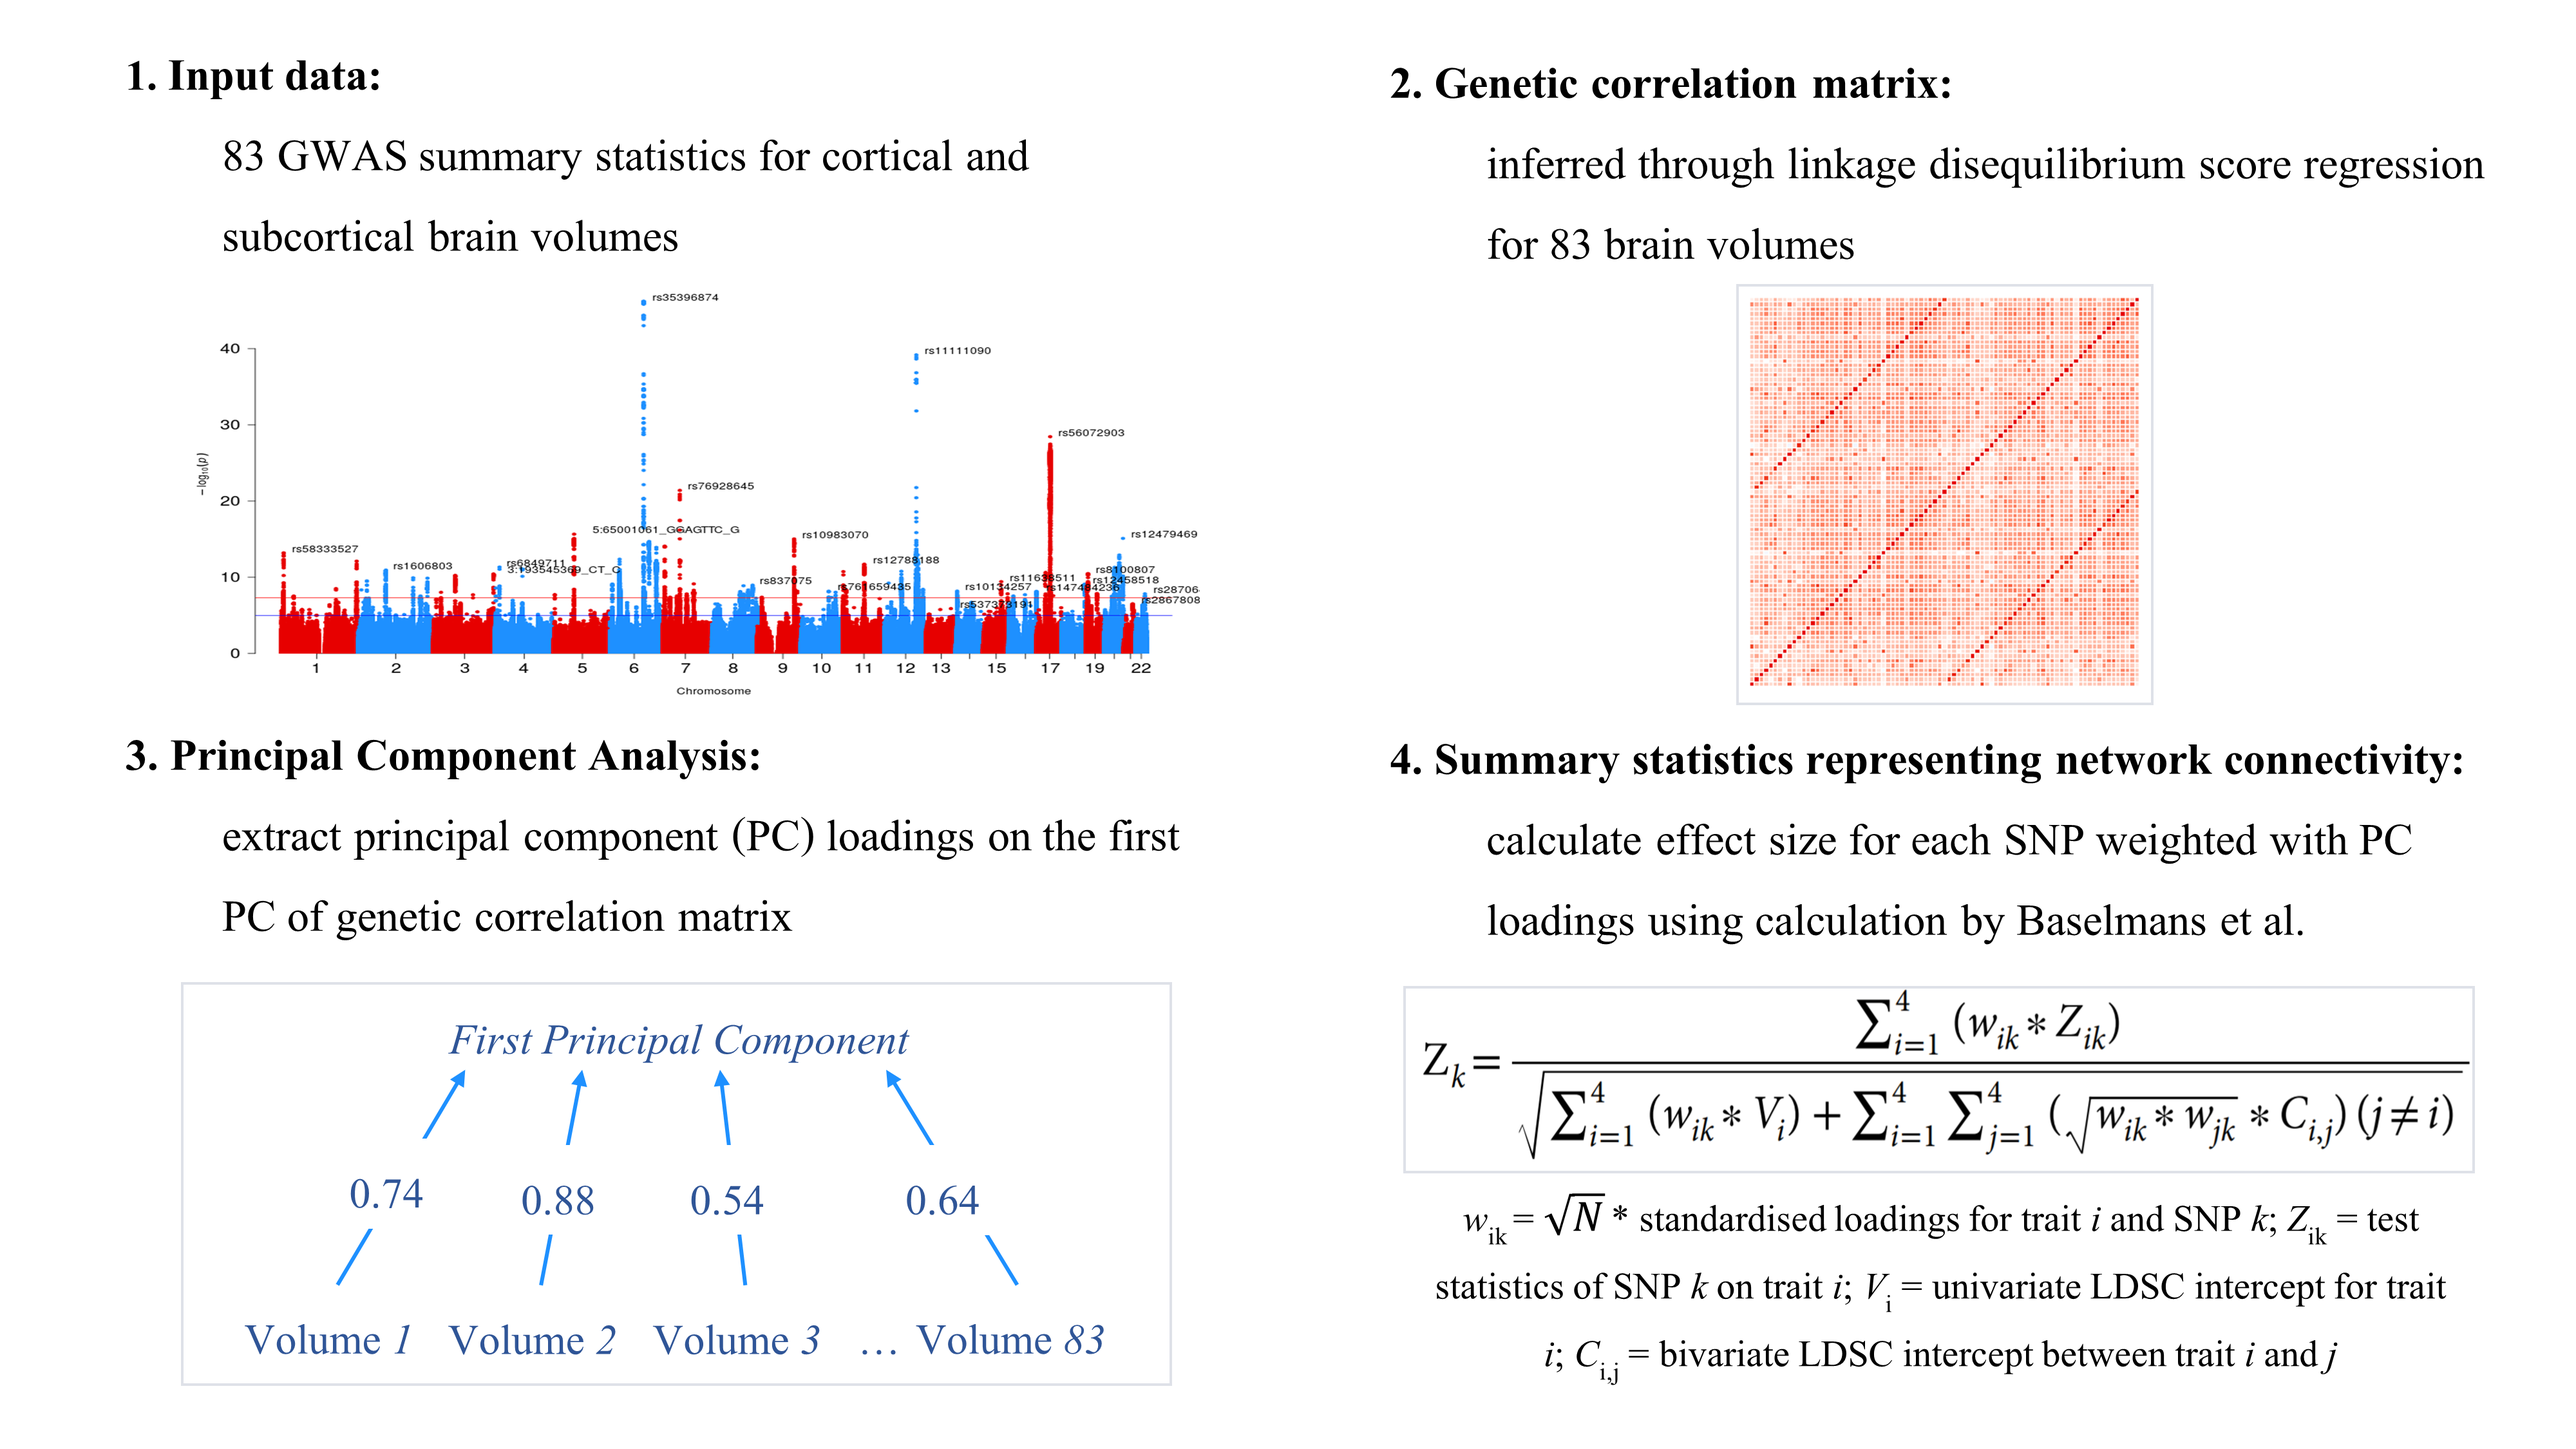
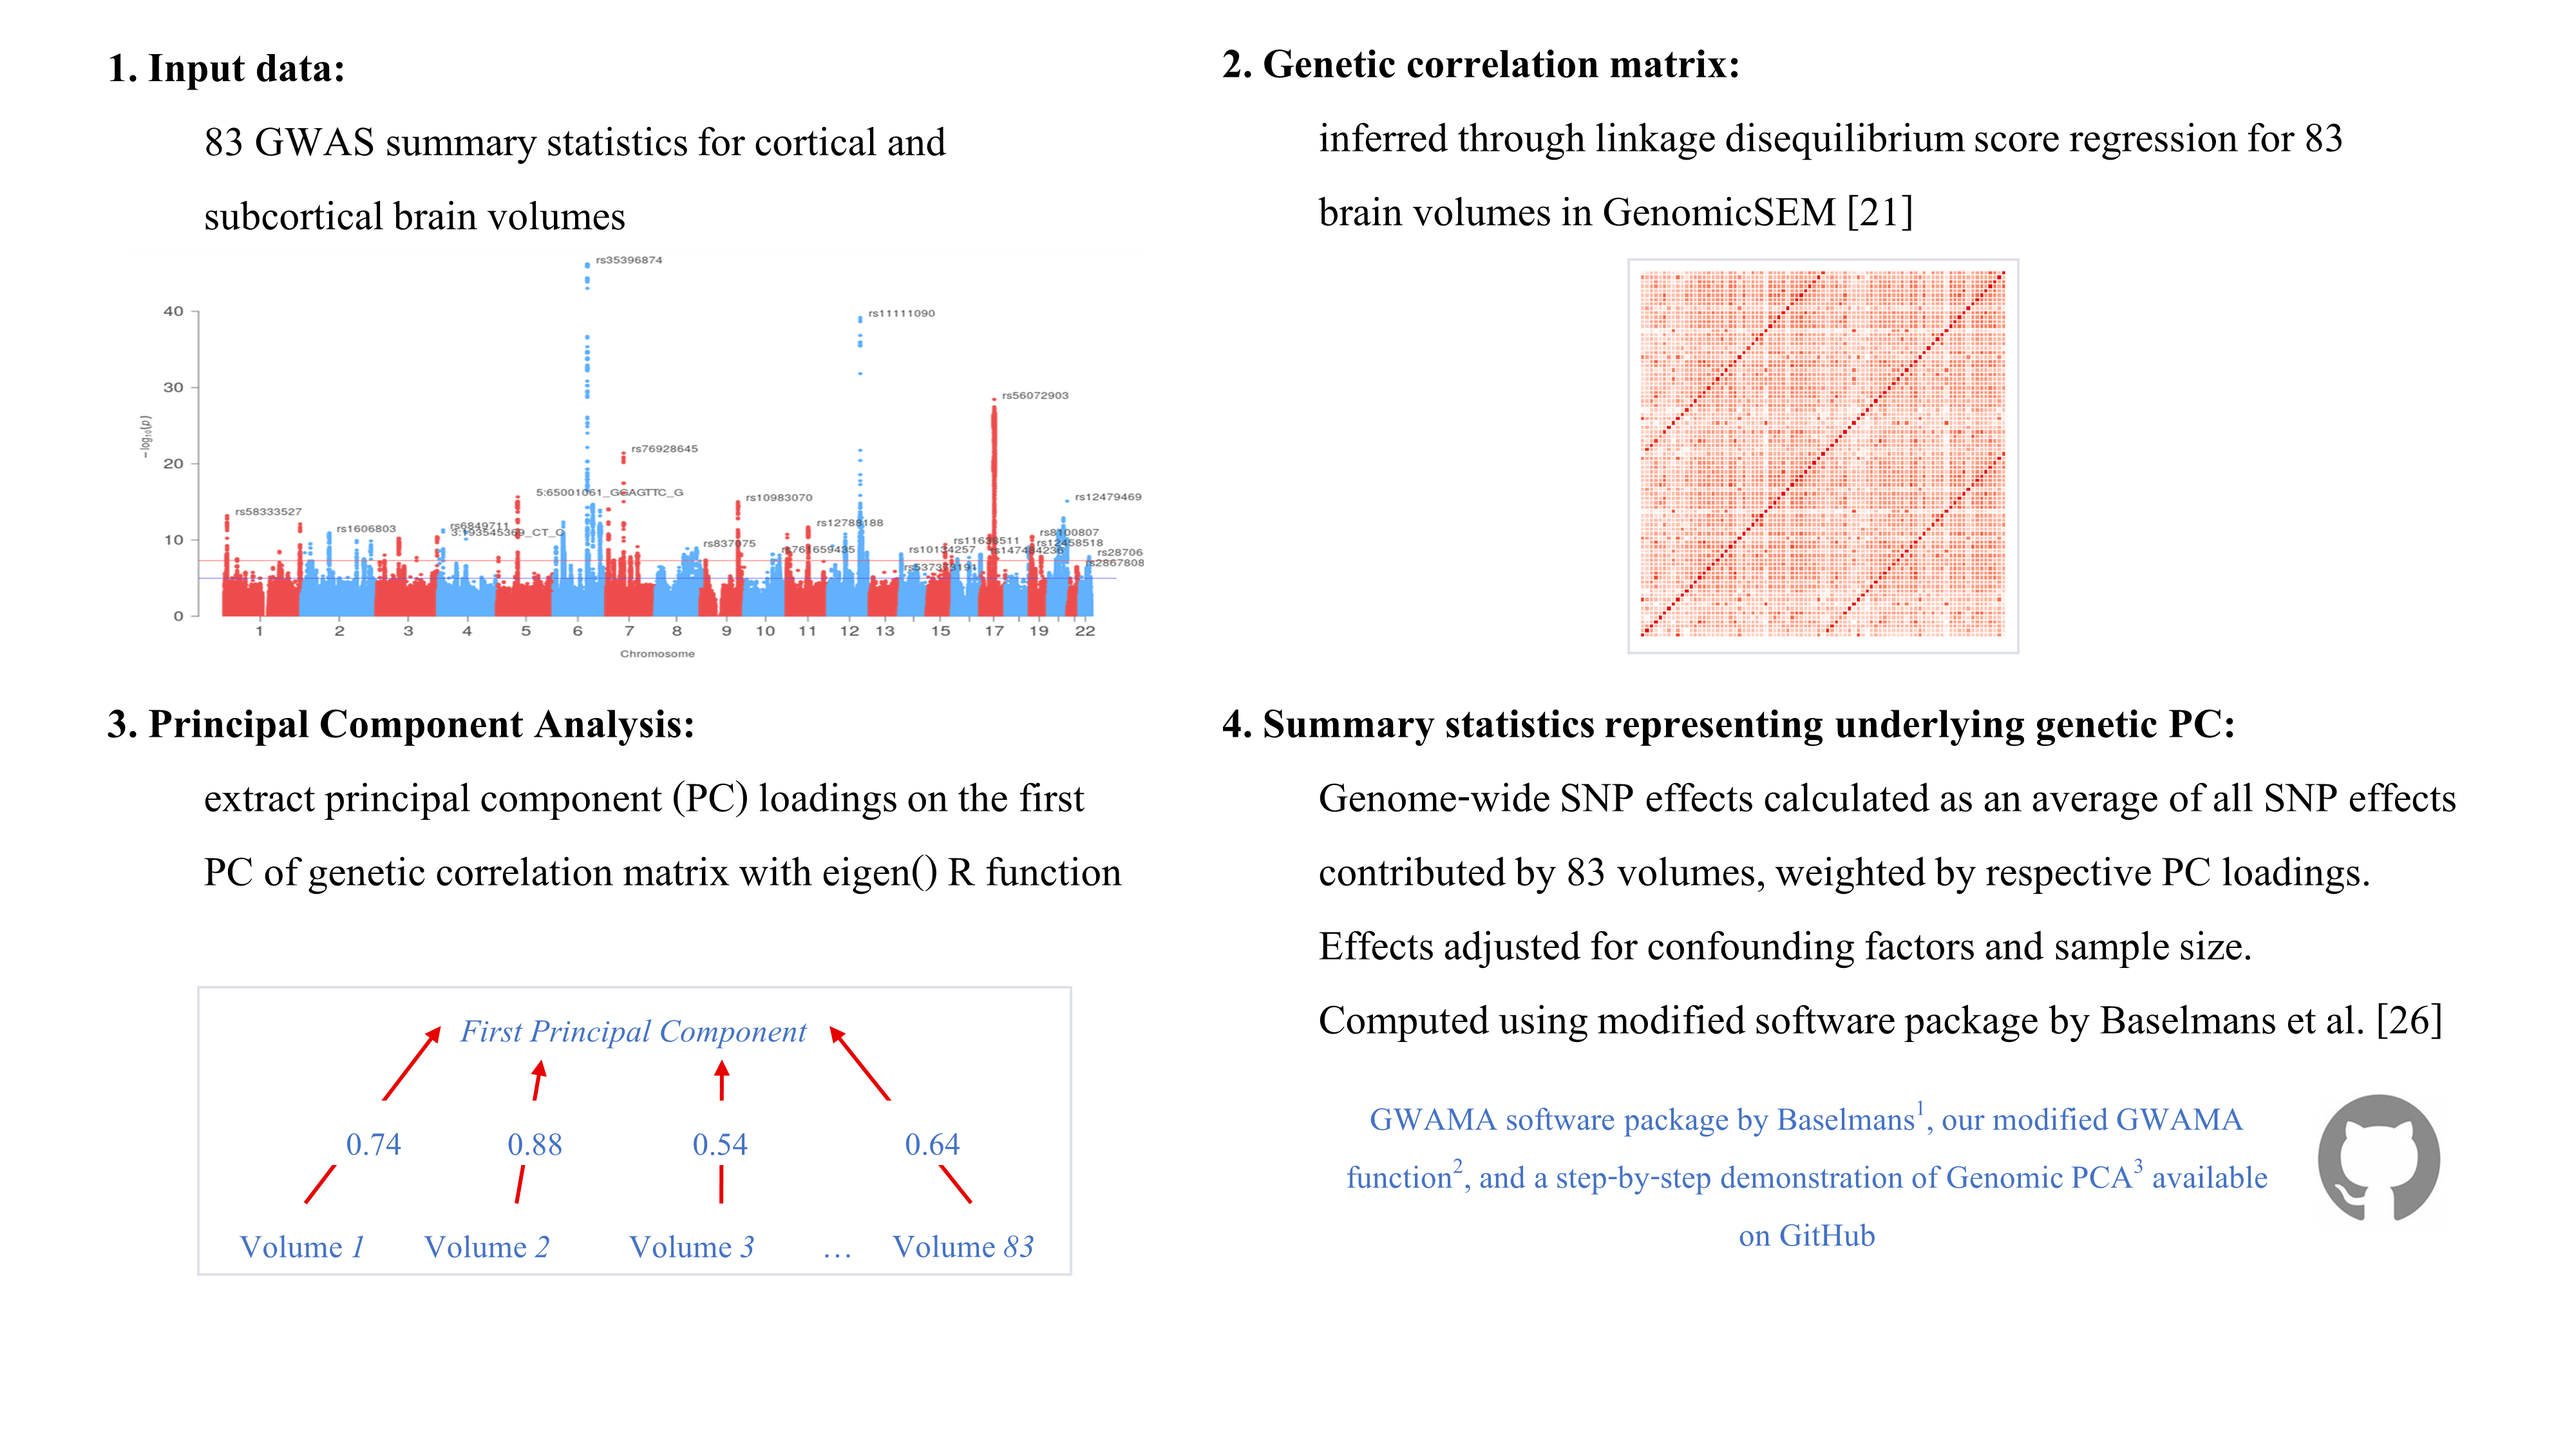
adjust_figure

diff --git a/Hypothesis3.html b/Hypothesis3.html
@@ -379,7 +379,7 @@ body{
 <p><br> <br></p>
 <div id="calculate-pc-sumstats" class="section level1">
 <h1>Calculate PC sumstats</h1>
-<p><img src="methods_visualisation.png" /></p>
+<p><img src="methods_visualisation.png" /> URLs: <a href="https://github.com/baselmans/multivariate_GWAMA/">1 GWAMA software package by Baselmans</a>, <a href="https://github.com/AnnaFurtjes/Genetic_networks_project/blob/main/my_GWAMA_26032020.R">2 our modified GWAMA function</a>, <a href="https://annafurtjes.github.io/genomicPCA/">3 Step-by-step demonstration of Genomic PCA</a></p>
 <p><br> <br></p>
 <hr />
 <div id="format-gwas-as-expected-by-gwama-software" class="section level2">
@@ -796,8 +796,8 @@ only_networks&lt;-only_networks[which(!is.na(only_networks$value)),]
 
 library(DT)
 datatable(only_networks, caption = &quot;Genetic correlations among genetic networks&quot;,colnames = c(&quot;Network 1&quot;,&quot;Network 2&quot;,&quot;rg&quot;), rownames=FALSE,options = list(pageLength=5, scrollX=T))</code></pre>
-<div id="htmlwidget-a370f885762bec3b30b0" style="width:100%;height:auto;" class="datatables html-widget"></div>
-<script type="application/json" data-for="htmlwidget-a370f885762bec3b30b0">{"x":{"filter":"none","caption":"<caption>Genetic correlations among genetic networks<\/caption>","data":[["cingulo","default_mode","hippocampal","multiple","p_fit","salience","sensori","temporo","whole_brain","default_mode","hippocampal","multiple","p_fit","salience","sensori","temporo","whole_brain","hippocampal","multiple","p_fit","salience","sensori","temporo","whole_brain","multiple","p_fit","salience","sensori","temporo","whole_brain","p_fit","salience","sensori","temporo","whole_brain","salience","sensori","temporo","whole_brain","sensori","temporo","whole_brain","temporo","whole_brain","whole_brain"],["central_exec","central_exec","central_exec","central_exec","central_exec","central_exec","central_exec","central_exec","central_exec","cingulo","cingulo","cingulo","cingulo","cingulo","cingulo","cingulo","cingulo","default_mode","default_mode","default_mode","default_mode","default_mode","default_mode","default_mode","hippocampal","hippocampal","hippocampal","hippocampal","hippocampal","hippocampal","multiple","multiple","multiple","multiple","multiple","p_fit","p_fit","p_fit","p_fit","salience","salience","salience","sensori","sensori","temporo"],[0.88,0.92,0.66,0.94,0.95,0.69,0.82,0.85,0.91,0.86,0.68,0.87,0.89,0.84,0.82,0.86,0.91,0.75,0.89,0.95,0.71,0.82,0.93,0.95,0.63,0.71,0.79,0.69,0.77,0.81,0.92,0.69,0.88,0.83,0.9,0.73,0.85,0.94,0.97,0.76,0.77,0.83,0.8,0.89,0.95]],"container":"<table class=\"display\">\n  <thead>\n    <tr>\n      <th>Network 1<\/th>\n      <th>Network 2<\/th>\n      <th>rg<\/th>\n    <\/tr>\n  <\/thead>\n<\/table>","options":{"pageLength":5,"scrollX":true,"columnDefs":[{"className":"dt-right","targets":2}],"order":[],"autoWidth":false,"orderClasses":false,"lengthMenu":[5,10,25,50,100]}},"evals":[],"jsHooks":[]}</script>
+<div id="htmlwidget-9f03a38f6f838757a556" style="width:100%;height:auto;" class="datatables html-widget"></div>
+<script type="application/json" data-for="htmlwidget-9f03a38f6f838757a556">{"x":{"filter":"none","caption":"<caption>Genetic correlations among genetic networks<\/caption>","data":[["cingulo","default_mode","hippocampal","multiple","p_fit","salience","sensori","temporo","whole_brain","default_mode","hippocampal","multiple","p_fit","salience","sensori","temporo","whole_brain","hippocampal","multiple","p_fit","salience","sensori","temporo","whole_brain","multiple","p_fit","salience","sensori","temporo","whole_brain","p_fit","salience","sensori","temporo","whole_brain","salience","sensori","temporo","whole_brain","sensori","temporo","whole_brain","temporo","whole_brain","whole_brain"],["central_exec","central_exec","central_exec","central_exec","central_exec","central_exec","central_exec","central_exec","central_exec","cingulo","cingulo","cingulo","cingulo","cingulo","cingulo","cingulo","cingulo","default_mode","default_mode","default_mode","default_mode","default_mode","default_mode","default_mode","hippocampal","hippocampal","hippocampal","hippocampal","hippocampal","hippocampal","multiple","multiple","multiple","multiple","multiple","p_fit","p_fit","p_fit","p_fit","salience","salience","salience","sensori","sensori","temporo"],[0.88,0.92,0.66,0.94,0.95,0.69,0.82,0.85,0.91,0.86,0.68,0.87,0.89,0.84,0.82,0.86,0.91,0.75,0.89,0.95,0.71,0.82,0.93,0.95,0.63,0.71,0.79,0.69,0.77,0.81,0.92,0.69,0.88,0.83,0.9,0.73,0.85,0.94,0.97,0.76,0.77,0.83,0.8,0.89,0.95]],"container":"<table class=\"display\">\n  <thead>\n    <tr>\n      <th>Network 1<\/th>\n      <th>Network 2<\/th>\n      <th>rg<\/th>\n    <\/tr>\n  <\/thead>\n<\/table>","options":{"pageLength":5,"scrollX":true,"columnDefs":[{"className":"dt-right","targets":2}],"order":[],"autoWidth":false,"orderClasses":false,"lengthMenu":[5,10,25,50,100]}},"evals":[],"jsHooks":[]}</script>
 <p>The genetic correlations between the networks range from 0.97 to 0.63 (mean rg 0.83; SD = 0.09). This indicates that the different networks index very similar polygenic signal. The largest genetic correlation of 0.97 was between whole_brain and p_fit. The smallest genetic correlation of 0.63 was between multiple and hippocampal.</p>
 <p><br> <br></p>
 </div>
@@ -1777,8 +1777,8 @@ names(table)&lt;-c(&quot;model&quot;,&quot;rg&quot;,&quot;SE&quot;,&quot;CI&quot
 
 library(DT)
 datatable(table, caption = &quot;Genetic correlations between individual networks and specific cognitive abilities&quot;, rownames=FALSE,options = list(pageLength=5, scrollX=T))</code></pre>
-<div id="htmlwidget-e1c917f257771270c41e" style="width:100%;height:auto;" class="datatables html-widget"></div>
-<script type="application/json" data-for="htmlwidget-e1c917f257771270c41e">{"x":{"filter":"none","caption":"<caption>Genetic correlations between individual networks and specific cognitive abilities<\/caption>","data":[["central_exec_Matrix","central_exec_Memory","central_exec_Symbol Digit","cingulo_Matrix","cingulo_Memory","cingulo_Symbol Digit","default_mode_Matrix","default_mode_Memory","default_mode_Symbol Digit","hippocampal_Matrix","hippocampal_Memory","hippocampal_Symbol Digit","multiple_Matrix","multiple_Memory","multiple_Symbol Digit","p_fit_Matrix","p_fit_Memory","p_fit_Symbol Digit","salience_Matrix","salience_Memory","salience_Symbol Digit","sensori_Matrix","sensori_Memory","sensori_Symbol Digit","temporo_Matrix","temporo_Memory","temporo_Symbol Digit","whole_brain_Matrix","whole_brain_Memory","whole_brain_Symbol Digit"],[0.2013,0.1168,0.1403,0.1907,0.0915,0.1209,0.2219,0.1082,0.1387,0.185,0.0278,0.1263,0.1675,0.111,0.11,0.227,0.1139,0.1204,0.1276,0.0498,0.1285,0.1111,0.0888,0.1198,0.2416,0.0967,0.1087,0.2287,0.0991,0.1365],[0.0884,0.0384,0.0463,0.095,0.0369,0.0458,0.0913,0.0405,0.0446,0.094,0.04,0.0452,0.0888,0.0393,0.0465,0.0865,0.0382,0.0456,0.0912,0.0354,0.047,0.0877,0.0401,0.0468,0.0881,0.039,0.0461,0.0875,0.0384,0.0469],["0.0281 - 0.3745","0.0415 - 0.1921","0.0495 - 0.2311","0.0046 - 0.3768","0.0192 - 0.1638","0.0311 - 0.2107","0.043 - 0.4008","0.0288 - 0.1876","0.0513 - 0.2261","7e-04 - 0.3693","-0.0505 - 0.1061","0.0376 - 0.2149","-0.0066 - 0.3416","0.0339 - 0.188","0.0189 - 0.2011","0.0575 - 0.3964","0.039 - 0.1887","0.031 - 0.2097","-0.0512 - 0.3065","-0.0197 - 0.1192","0.0363 - 0.2207","-0.0608 - 0.283","0.0103 - 0.1673","0.0282 - 0.2115","0.069 - 0.4143","0.0202 - 0.1732","0.0184 - 0.199","0.0571 - 0.4002","0.0238 - 0.1745","0.0446 - 0.2284"],[0.0227,0.0024,0.0024,0.0446,0.0131,0.0083,0.0151,0.0075,0.0019,0.0491,0.4866,0.0052,0.0593,0.0048,0.018,0.0087,0.0029,0.0083,0.1619,0.16,0.0063,0.2053,0.0267,0.0104,0.0061,0.0133,0.0182,0.009,0.0099,0.0036],[0.031,0.0193,0.0193,0.0558,0.0221,0.0193,0.0238,0.0193,0.0193,0.0589,0.4866,0.0193,0.0684,0.0193,0.0261,0.0193,0.0193,0.0193,0.1735,0.1735,0.0193,0.2124,0.0348,0.0195,0.0193,0.0221,0.0261,0.0193,0.0195,0.0193]],"container":"<table class=\"display\">\n  <thead>\n    <tr>\n      <th>model<\/th>\n      <th>rg<\/th>\n      <th>SE<\/th>\n      <th>CI<\/th>\n      <th>p_value<\/th>\n      <th>p_adjust<\/th>\n    <\/tr>\n  <\/thead>\n<\/table>","options":{"pageLength":5,"scrollX":true,"columnDefs":[{"className":"dt-right","targets":[1,2,4,5]}],"order":[],"autoWidth":false,"orderClasses":false,"lengthMenu":[5,10,25,50,100]}},"evals":[],"jsHooks":[]}</script>
+<div id="htmlwidget-67d34256ac7ccf2c0d2e" style="width:100%;height:auto;" class="datatables html-widget"></div>
+<script type="application/json" data-for="htmlwidget-67d34256ac7ccf2c0d2e">{"x":{"filter":"none","caption":"<caption>Genetic correlations between individual networks and specific cognitive abilities<\/caption>","data":[["central_exec_Matrix","central_exec_Memory","central_exec_Symbol Digit","cingulo_Matrix","cingulo_Memory","cingulo_Symbol Digit","default_mode_Matrix","default_mode_Memory","default_mode_Symbol Digit","hippocampal_Matrix","hippocampal_Memory","hippocampal_Symbol Digit","multiple_Matrix","multiple_Memory","multiple_Symbol Digit","p_fit_Matrix","p_fit_Memory","p_fit_Symbol Digit","salience_Matrix","salience_Memory","salience_Symbol Digit","sensori_Matrix","sensori_Memory","sensori_Symbol Digit","temporo_Matrix","temporo_Memory","temporo_Symbol Digit","whole_brain_Matrix","whole_brain_Memory","whole_brain_Symbol Digit"],[0.2013,0.1168,0.1403,0.1907,0.0915,0.1209,0.2219,0.1082,0.1387,0.185,0.0278,0.1263,0.1675,0.111,0.11,0.227,0.1139,0.1204,0.1276,0.0498,0.1285,0.1111,0.0888,0.1198,0.2416,0.0967,0.1087,0.2287,0.0991,0.1365],[0.0884,0.0384,0.0463,0.095,0.0369,0.0458,0.0913,0.0405,0.0446,0.094,0.04,0.0452,0.0888,0.0393,0.0465,0.0865,0.0382,0.0456,0.0912,0.0354,0.047,0.0877,0.0401,0.0468,0.0881,0.039,0.0461,0.0875,0.0384,0.0469],["0.0281 - 0.3745","0.0415 - 0.1921","0.0495 - 0.2311","0.0046 - 0.3768","0.0192 - 0.1638","0.0311 - 0.2107","0.043 - 0.4008","0.0288 - 0.1876","0.0513 - 0.2261","7e-04 - 0.3693","-0.0505 - 0.1061","0.0376 - 0.2149","-0.0066 - 0.3416","0.0339 - 0.188","0.0189 - 0.2011","0.0575 - 0.3964","0.039 - 0.1887","0.031 - 0.2097","-0.0512 - 0.3065","-0.0197 - 0.1192","0.0363 - 0.2207","-0.0608 - 0.283","0.0103 - 0.1673","0.0282 - 0.2115","0.069 - 0.4143","0.0202 - 0.1732","0.0184 - 0.199","0.0571 - 0.4002","0.0238 - 0.1745","0.0446 - 0.2284"],[0.0227,0.0024,0.0024,0.0446,0.0131,0.0083,0.0151,0.0075,0.0019,0.0491,0.4866,0.0052,0.0593,0.0048,0.018,0.0087,0.0029,0.0083,0.1619,0.16,0.0063,0.2053,0.0267,0.0104,0.0061,0.0133,0.0182,0.009,0.0099,0.0036],[0.031,0.0193,0.0193,0.0558,0.0221,0.0193,0.0238,0.0193,0.0193,0.0589,0.4866,0.0193,0.0684,0.0193,0.0261,0.0193,0.0193,0.0193,0.1735,0.1735,0.0193,0.2124,0.0348,0.0195,0.0193,0.0221,0.0261,0.0193,0.0195,0.0193]],"container":"<table class=\"display\">\n  <thead>\n    <tr>\n      <th>model<\/th>\n      <th>rg<\/th>\n      <th>SE<\/th>\n      <th>CI<\/th>\n      <th>p_value<\/th>\n      <th>p_adjust<\/th>\n    <\/tr>\n  <\/thead>\n<\/table>","options":{"pageLength":5,"scrollX":true,"columnDefs":[{"className":"dt-right","targets":[1,2,4,5]}],"order":[],"autoWidth":false,"orderClasses":false,"lengthMenu":[5,10,25,50,100]}},"evals":[],"jsHooks":[]}</script>
 <p><strong>Most genetic associations between the networks and individual cognitive traits were significant.</strong></p>
 <p><br></p>
 <p><strong>The following table lists the traits that were non-significantly associated:</strong></p>
